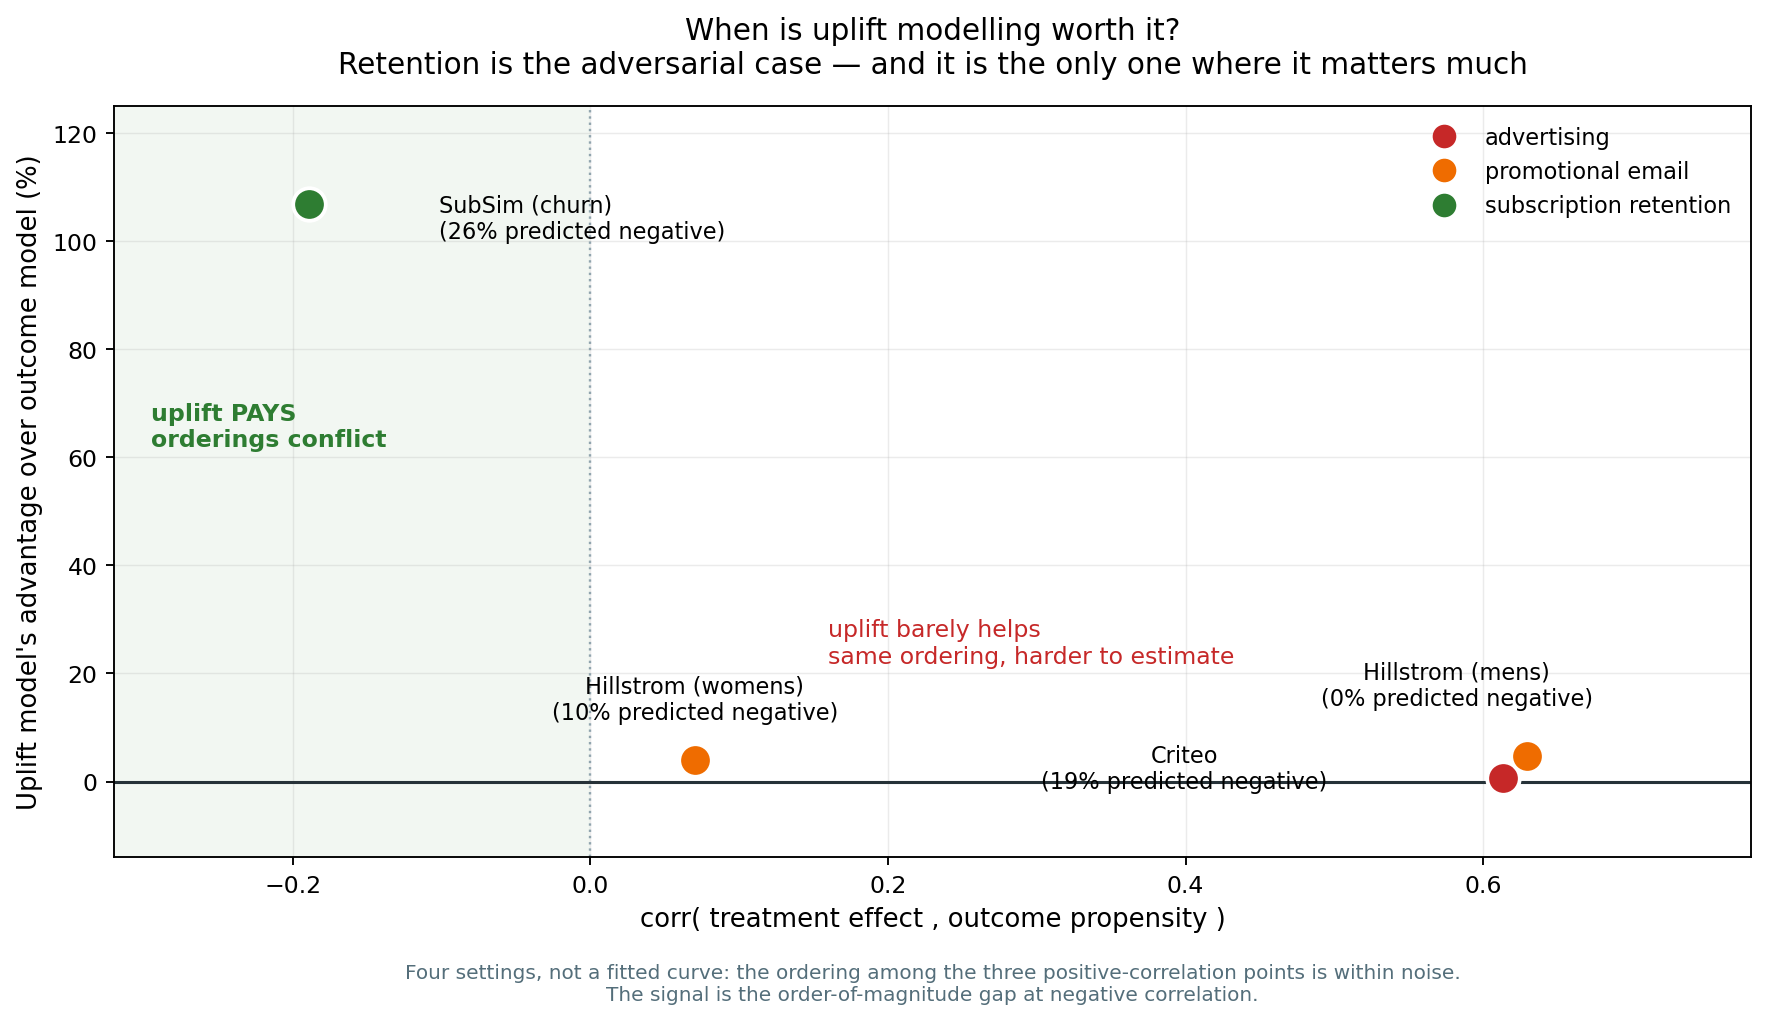
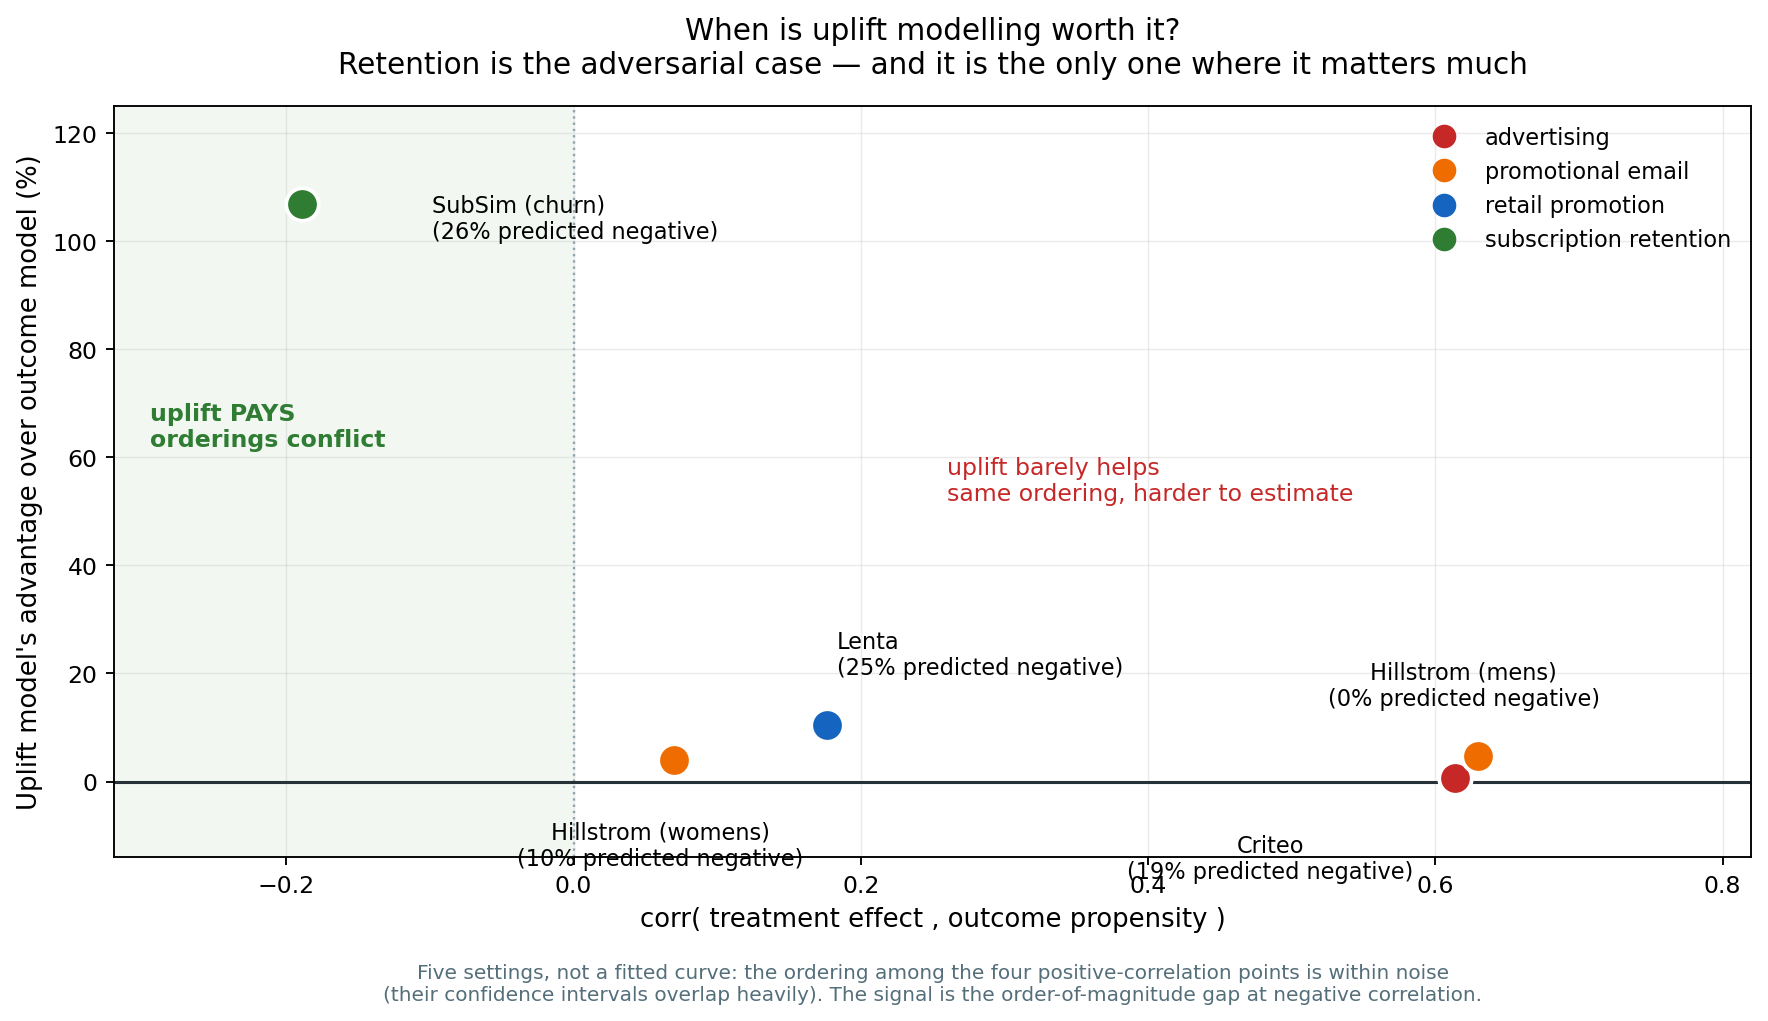
Add Lenta: the correlation principle survives an out-of-sample prediction
Third real RCT (Lenta, 687,029 supermarket customers, SMS promotion, 75/25),
added specifically to try to break D-026 rather than to confirm it.

THE PREDICTION, recorded before the download finished: if corr(treatment effect,
outcome propensity) really governs whether uplift modelling pays, then retail
promotion should fall BETWEEN advertising (Criteo, +0.61) and subscription
retention (-0.19).

RESULT: +0.177. As predicted.

    Hillstrom (mens)   +0.63    uplift advantage   +4.7%    0.2% negative
    Criteo             +0.61                       +0.6%   19.2%
    Lenta              +0.18                      +10.4%   24.9%
    Hillstrom (womens) +0.07                       +3.9%   10.2%
    SubSim (churn)     -0.19                     +106.8%   25.7%

WHAT IS NOT CONFIRMED, and it matters. Whether the consequence follows. The
+10.4% advantage is nominally the largest among the positive-correlation
settings, consistent with the principle -- but the intervals make it meaningless:
class-transform [359, 1601] against outcome-propensity [309, 1477], with random
at [343, 1007]. Nothing is distinguishable from anything.

Lenta is underpowered rather than noisy. Its ATE is +0.0075 on a 10.3% base -- a
7.4% lift, against Hillstrom's 42.6% and Criteo's 27.3%. The small-n sweep is
flat from n=500 to n=20,000: forty times more training data changes nothing
because there is barely a signal to learn.

So this is ONE confirming observation, not two: the principle survives on the
[…]

diff --git a/keel/benchmarks/spectrum.py b/keel/benchmarks/spectrum.py
@@ -41,7 +41,7 @@ matplotlib.use("Agg")
 import matplotlib.pyplot as plt
 import numpy as np
 
-from keel.benchmarks.datasets import load_criteo, load_hillstrom
+from keel.benchmarks.datasets import load_criteo, load_hillstrom, load_lenta
 from keel.benchmarks.evaluate import evaluate_policy
 from keel.benchmarks.models import (
     ClassTransform,
@@ -147,6 +147,9 @@ def collect() -> list[Point]:
         ("Criteo", "advertising", load_criteo(sample_rows=1_500_000, seed=0)),
         ("Hillstrom (mens)", "promotional email", load_hillstrom("mens")),
         ("Hillstrom (womens)", "promotional email", load_hillstrom("womens")),
+        # Added AFTER the principle was formulated, as an out-of-sample test:
+        # retail promotion was predicted to fall between advertising and churn.
+        ("Lenta", "retail promotion", load_lenta()),
     ]:
         corr, adv, neg = measure(rct)
         points.append(Point(label, domain, corr, adv, neg, len(rct)))
@@ -161,6 +164,7 @@ def figure_3(points: list[Point] | None = None, out: Path | None = None) -> Path
     colours = {
         "advertising": "#C62828",
         "promotional email": "#EF6C00",
+        "retail promotion": "#1565C0",
         "subscription retention": "#2E7D32",
     }
 
@@ -171,9 +175,10 @@ def figure_3(points: list[Point] | None = None, out: Path | None = None) -> Path
     # each other at corr ~0.6, so automatic placement collides.
     offsets = {
         "SubSim (churn)": (55, -6),
-        "Hillstrom (womens)": (0, 26),
-        "Criteo": (-135, 4),
-        "Hillstrom (mens)": (-30, 30),
+        "Hillstrom (womens)": (-6, -36),
+        "Lenta": (4, 30),
+        "Criteo": (-78, -34),
+        "Hillstrom (mens)": (-6, 30),
     }
     for p in points:
         ax.scatter(p.correlation, p.uplift_advantage, s=190,
@@ -187,12 +192,12 @@ def figure_3(points: list[Point] | None = None, out: Path | None = None) -> Path
         )
 
     ax.set_ylim(-14, 125)
-    ax.set_xlim(-0.32, 0.78)
+    ax.set_xlim(-0.32, 0.82)
 
     ax.axvspan(-0.32, 0.0, color="#2E7D32", alpha=0.06, lw=0, zorder=0)
     ax.annotate("uplift PAYS\norderings conflict", xy=(-0.295, 62),
                 fontsize=10, color="#2E7D32", ha="left", weight="bold")
-    ax.annotate("uplift barely helps\nsame ordering, harder to estimate", xy=(0.16, 22),
+    ax.annotate("uplift barely helps\nsame ordering, harder to estimate", xy=(0.26, 52),
                 fontsize=10, color="#C62828", ha="left")
 
     ax.set_xlabel("corr( treatment effect , outcome propensity )", fontsize=11)
@@ -207,9 +212,9 @@ def figure_3(points: list[Point] | None = None, out: Path | None = None) -> Path
     # Four points is a contrast, not a fitted relationship. Deliberately no trend line.
     ax.text(
         0.5, -0.19,
-        "Four settings, not a fitted curve: the ordering among the three positive-correlation "
-        "points is within noise.\nThe signal is the order-of-magnitude gap at "
-        "negative correlation.",
+        "Five settings, not a fitted curve: the ordering among the four positive-correlation "
+        "points is within noise\n(their confidence intervals overlap heavily). The signal is "
+        "the order-of-magnitude gap at negative correlation.",
         transform=ax.transAxes, ha="center", fontsize=8.5, color="#546E7A",
     )
 

diff --git a/CLAUDE.md b/CLAUDE.md
@@ -12,21 +12,23 @@ small-sample causal uncertainty**. Keel decides *who to treat, with what, at wha
 — and **abstains** when the CATE posterior is too wide. Vertical: subscription
 (contractual) first; e-commerce/BTYD is Phase 7.
 
-**Proven (Phase 0, 6/6 seeds):** churn-score targeting loses money, *worse than random*;
-abstention beats ranking (209 > 718 treated); sleeping dogs 48% of top risk decile vs 2%
-of bottom. **(Phase 1):** PIT features prevent a **0.35 AUC inflation** (0.603 vs 0.954).
+**Proven (Phase 0):** churn-score targeting loses money, worse than random 6/6 seeds;
+abstention beats ranking (209 > 718). **(Phase 1):** PIT features prevent a 0.35 AUC
+inflation (0.603 vs 0.954).
 
-**Real-data checks (Hillstrom + Criteo RCTs).** Worse-than-random did NOT replicate
-(D-020). **Governing quantity = corr(τ, propensity)** (D-026): Criteo +0.61 → uplift
-adds 0.6%; Hillstrom +0.07 → 3.9%; churn −0.19 → **+107%**. When orderings coincide the
-outcome model wins (easier estimand). Retention is the adversarial case. Small-n: uplift
-beats random on only **75% of seeds at n=500** (D-023). Prior art: Ascarza, JMR 2018.
+**Real-data checks (Hillstrom, Criteo, Lenta RCTs).** Worse-than-random did NOT
+replicate (D-020). **Governing quantity = corr(τ, propensity)** (D-026): Criteo +0.61 →
+uplift adds 0.6%; Lenta +0.18 → 10.4%; Hillstrom +0.07 → 3.9%; churn −0.19 → **+107%**.
+When orderings coincide the outcome model wins (easier estimand). Retention is the
+adversarial case. Lenta was an **out-of-sample prediction and it landed** (D-031),
+though underpowered to test the consequence. Small-n: uplift beats random on only
+**75% of seeds at n=500** (D-023). Prior art: Ascarza, JMR 2018.
 
 ---
 
 ## Status
 
-**Phases 0-1 COMPLETE + external validation (Hillstrom, Criteo).** 167 tests.
+**Phases 0-1 COMPLETE + 3 real-RCT validations.** 172 tests. CI green.
 **Next: Phase 2** — dunning / involuntary churn. The first thing that earns money.
 
 | # | Phase | Status | Gate |
@@ -40,8 +42,8 @@ beats random on only **75% of seeds at n=500** (D-023). Prior art: Ascarza, JMR 
 | 6 | Holdout infra + incrementality reports + cancel widget | ⬜ | **real client ROI number**; paper 3 |
 | 7 | Cross-tenant priors, BTYD router, integrations | ⬜ | tenant #10 beats tenant #1 on day 1 |
 
-**Papers:** merge 1+2 → small-*n* abstention (simulator as instrument, finding as lead;
-fig 2 is real-data support) · 3) margin-aware offer allocation.
+**Papers:** merge 1+2 → small-*n* abstention + the corr(τ,propensity) principle
+(fig 2, 3 = real-data support) · 3) margin-aware offer allocation.
 
 ---
 
@@ -77,16 +79,16 @@ keel/sim/                  config · latents (copula) · hazard (ONE defn, two r
                            subsim (panel) · counterfactual (exact τ, CRN, LADDER)
                            calibration (check, check_quadrants, calibrate_intercept)
 keel/experiments/          kill_test · leakage_penalty · figures
-keel/benchmarks/           datasets (Hillstrom, Criteo) · models · evaluate · small_n
+keel/benchmarks/           datasets (Hillstrom, Criteo, Lenta) · models · evaluate · small_n
                            spectrum (when uplift pays) · figures
-tests/                     167 tests — fairness, realism, edge cases, leakage gate
+tests/                     172 tests — fairness, realism, edge cases, leakage gate
 explainer/                 10 docs for non-technical evaluators/investors (see protocol)
 ```
 
 ## Commands
 
 ```bash
-make check      # lint + 167 tests + calibration gates — run before every commit
+make check      # lint + 172 tests + calibration gates — run before every commit
 make killtest   # re-run the founding experiment
 make figures    # regenerate figures, auto-syncs explainer/figures/
 make help       # everything else
@@ -125,16 +127,15 @@ Keep this file under ~120 lines. If it grows, cut history, not invariants.
 
 ## Checkpoints
 
-- **CP-01** — Phase 0 complete. SubSim calibrated (4.5% monthly voluntary churn, 30%
-  involuntary share, 17% sleeping dogs, mean τ=−0.010), kill test passed 6/6 seeds,
-  figure 1 generated, 58 tests green.
-- **CP-02** — Phase 1 complete. Canonical schema, PIT feature store, leakage suite,
-  Stripe/CSV/SubSim ingest. Leakage penalty measured: 0.603 correct vs 0.954
-  unfiltered. 137 tests green, 4 CI gates.
-- **CP-03** — External validation on Hillstrom RCT. Worse-than-random did not replicate
-  (no sleeping dogs in that data) → claim scoped, D-020. New real-data finding: uplift
-  unreliable below n≈2000 (75% win rate at n=500) → D-023, figure 2.
+- **CP-01** — Phase 0 complete. SubSim calibrated, kill test 6/6 seeds, figure 1.
+- **CP-02** — Phase 1 complete. Canonical schema, PIT store, leakage suite, ingest.
+- **CP-03** — Hillstrom: worse-than-random did NOT replicate → claim scoped (D-020).
+  Small-n unreliability found (75% win rate at n=500) → D-023, figure 2.
 - **CP-04** — Criteo added. Uplift LOSES to outcome models there; reconciled by
   corr(τ,propensity) as the governing quantity (D-026, figure 3). Criteo file is
-  treatment-sorted — prefix reads invalid (D-024). 167 tests green.
+  treatment-sorted — prefix reads invalid (D-024).
+- **CP-05** — Lenta added as an OUT-OF-SAMPLE test of D-026: predicted to land between
+  advertising and churn, landed at +0.18 (D-031). Underpowered to test the consequence
+  (ATE only +7.4% lift). Two CI failures fixed — unpinned ruff rule set (D-028) and a
+  pandas-resolution assertion (D-030). 172 tests, CI green.
   Next: Phase 2 dunning — first revenue.

diff --git a/docs/BUILDLOG.md b/docs/BUILDLOG.md
@@ -618,3 +618,74 @@ difference (D-027).
 
 **167 tests passing.** Criteo tests lock in the treatment-sorting trap, the exclusion of
 `exposure` from covariates, and the coupling finding as regressions.
+
+---
+
+## Lenta — out-of-sample test of the correlation principle
+
+### Step L.1 — Getting the data
+
+138MB from `sklift.s3.eu-west-2.amazonaws.com` at ~20 KB/s — ~100 minutes, measured
+cleanly after killing four competing curl processes from an earlier retry storm. No
+faster mirror exists (the HuggingFace hit for "lenta" is a Russian *news* corpus, not
+this dataset), so unlike Criteo there was no 80x shortcut to find.
+
+Loader written while the download ran, applying both Criteo lessons up front: the
+single-arm guard, and a **60-feature cap**. The cap matters for the comparison — Lenta
+has ~190 columns against Criteo's 12, and letting it use all of them would confound
+"more features" with "different domain" in exactly the measurement under test.
+
+### Step L.2 — The prediction
+
+Recorded before the data landed: retail promotion should fall **between** advertising
+(+0.61) and subscription retention (−0.19).
+
+**Result: +0.177.** As predicted.
+
+### Step L.3 — Main result
+
+```
+lenta[response]: n=687,029  treated 75.1%  ATE +0.0075 (+7.4% lift)
+
+policy               targeted  uplift/1000  incremental             95% CI    qini
+treat_all              343515         6.77       2326.1                 --      --
+class_transform        103054         9.82       1011.5    [359.0, 1601.4]   201.7
+s_learner              103054         8.92        919.4    [284.8, 1496.5]   182.2
+outcome_propensity     103054         8.89        916.4    [309.3, 1477.2]   160.7
+t_learner              103054         7.98        822.7    [253.7, 1330.5]    25.6
+response_model         103054         7.36        758.5    [152.9, 1345.8]   145.5
+random                 103054         6.85        705.8    [343.1, 1006.6]     0.0
+```
+
+Best uplift beats best outcome by 10.4% — **but every interval overlaps every other,
+including random's.** With 343,515 test customers, nothing is distinguishable.
+
+### Step L.4 — Small-n sweep: flat
+
+| train n | outcome_prop | t_learner | s_learner | class_transform |
+|---|---|---|---|---|
+| 500 | 659±215 | 599±202 | 524±146 | 578±198 |
+| 20,000 | 660±206 | 473±140 | 510±153 | 658±201 |
+
+**Nothing improves with more data.** Lenta is underpowered rather than noisy: at a 7.4%
+lift there is barely a signal to learn, so 40x more training data changes nothing.
+
+### Step L.5 — What this does and does not establish
+
+*Establishes:* the correlation lands where predicted. That is a genuine out-of-sample
+hit for D-026 — the principle was formulated on Hillstrom and Criteo, and Lenta was
+chosen because it should fall between them.
+
+*Does not establish:* that the consequence follows. The +10.4% advantage is nominally
+the largest among positive-correlation settings, consistent with the principle, but the
+intervals make it meaningless.
+
+**One confirming observation, not two** (D-031).
+
+**Secondary observation worth keeping:** 24.9% of Lenta customers are predicted harmed —
+comparable to churn's 25.7% — yet uplift buys almost nothing. The *share* of harmed
+customers is not what matters; their **correlation with outcome propensity** is. That is
+the sharpest available statement of the refinement to D-020.
+
+**172 tests passing.** Figure 3 now carries five settings and states on its face that
+the ordering among the four positive-correlation points is within noise.

diff --git a/docs/DECISIONS.md b/docs/DECISIONS.md
@@ -657,3 +657,48 @@ wrong for a library other people install. The correct discipline is that tests a
 versions, so `make check` passing is not proof CI will pass. The mitigation is
 discipline, not machinery — if a future failure is again a version divergence rather
 than a real defect, a constraints file for CI becomes worth the complexity.
+
+---
+
+## D-031 — Lenta: the correlation principle survives an out-of-sample prediction
+
+**The prediction, made before the data was downloaded.** D-026 proposed that
+`corr(treatment effect, outcome propensity)` governs whether uplift modelling pays.
+Lenta (retail SMS promotion) was added specifically as a test: retail was predicted to
+fall **between** advertising (Criteo, +0.61) and subscription retention (−0.19). A
+prediction that cannot fail is not worth making.
+
+**Result: +0.177.** Between the two, as predicted.
+
+| setting | corr | uplift advantage | % predicted negative |
+|---|---:|---:|---:|
+| Hillstrom (mens) | +0.63 | +4.7% | 0.2% |
+| Criteo | +0.61 | +0.6% | 19.2% |
+| **Lenta** | **+0.18** | **+10.4%** | 24.9% |
+| Hillstrom (womens) | +0.07 | +3.9% | 10.2% |
+| SubSim (churn) | −0.19 | +106.8% | 25.7% |
+
+**What is confirmed and what is not — stated separately, because they differ.**
+
+*Confirmed:* the correlation lands where predicted. Retail promotion is less coupled
+than advertising and far less adversarial than retention.
+
+*Not confirmed:* whether the *consequence* follows. Lenta's uplift advantage is
+nominally +10.4%, the largest of the positive-correlation settings, which is consistent
+with the principle — but the confidence intervals make it meaningless:
+class-transform [359, 1601] against outcome-propensity [309, 1477], with random at
+[343, 1007]. **Nothing is distinguishable from anything.**
+
+**Why: Lenta is underpowered, not noisy.** The ATE is +0.0075 on a 10.3% base — a 7.4%
+lift, against Hillstrom's 42.6% and Criteo's 27.3%. The small-n sweep is flat from
+n=500 to n=20,000, with every method's mean inside one standard deviation of every
+other's. More training data does not help because there is barely a signal to learn.
+
+**The honest summary:** Lenta supports the principle on the axis it was predicted to
+land on, and is too underpowered to test the consequence. It is one confirming
+observation, not two.
+
+**A useful secondary observation:** 24.9% of Lenta customers are predicted to be harmed
+— comparable to the churn setting's 25.7% — yet uplift modelling still buys almost
+nothing. This reinforces the D-026 refinement: **the share of harmed customers is not
+what matters; their correlation with outcome propensity is.**

diff --git a/CHANGELOG.md b/CHANGELOG.md
@@ -6,6 +6,48 @@ each choice in [`docs/DECISIONS.md`](docs/DECISIONS.md).
 
 ---
 
+## Lenta — an out-of-sample test of the correlation principle
+
+**Third real RCT, added specifically to try to break D-026.**
+
+### The prediction, made before downloading
+
+Retail SMS promotion should fall **between** advertising (+0.61) and subscription
+retention (−0.19) on `corr(treatment effect, outcome propensity)`.
+
+### Result: +0.177 — as predicted
+
+| setting | corr | uplift advantage | % predicted negative |
+|---|---:|---:|---:|
+| Hillstrom (mens) | +0.63 | +4.7% | 0.2% |
+| Criteo | +0.61 | +0.6% | 19.2% |
+| **Lenta** | **+0.18** | **+10.4%** | 24.9% |
+| Hillstrom (womens) | +0.07 | +3.9% | 10.2% |
+| SubSim (churn) | −0.19 | +106.8% | 25.7% |
+
+### What is NOT confirmed
+
+Whether the *consequence* follows. Lenta's +10.4% uplift advantage is nominally the
+largest of the positive-correlation settings, but the intervals make it meaningless:
+class-transform [359, 1601] vs outcome-propensity [309, 1477], random at [343, 1007].
+**Nothing is distinguishable from anything.**
+
+Lenta is underpowered rather than noisy — ATE +0.0075 on a 10.3% base (7.4% lift,
+against Hillstrom's 42.6%). Its small-n sweep is flat from n=500 to n=20,000: more data
+does not help because there is barely a signal to learn.
+
+**One confirming observation, not two** (D-031).
+
+### Secondary observation
+
+24.9% of Lenta customers are predicted harmed — comparable to churn's 25.7% — yet
+uplift still buys almost nothing. The share of harmed customers is not what matters;
+their **correlation with outcome propensity** is.
+
+**172 tests passing.**
+
+---
+
 ## Criteo benchmark — and the quantity that reconciles everything
 
 **Second real dataset, an apparently contradictory result, and the principle that
